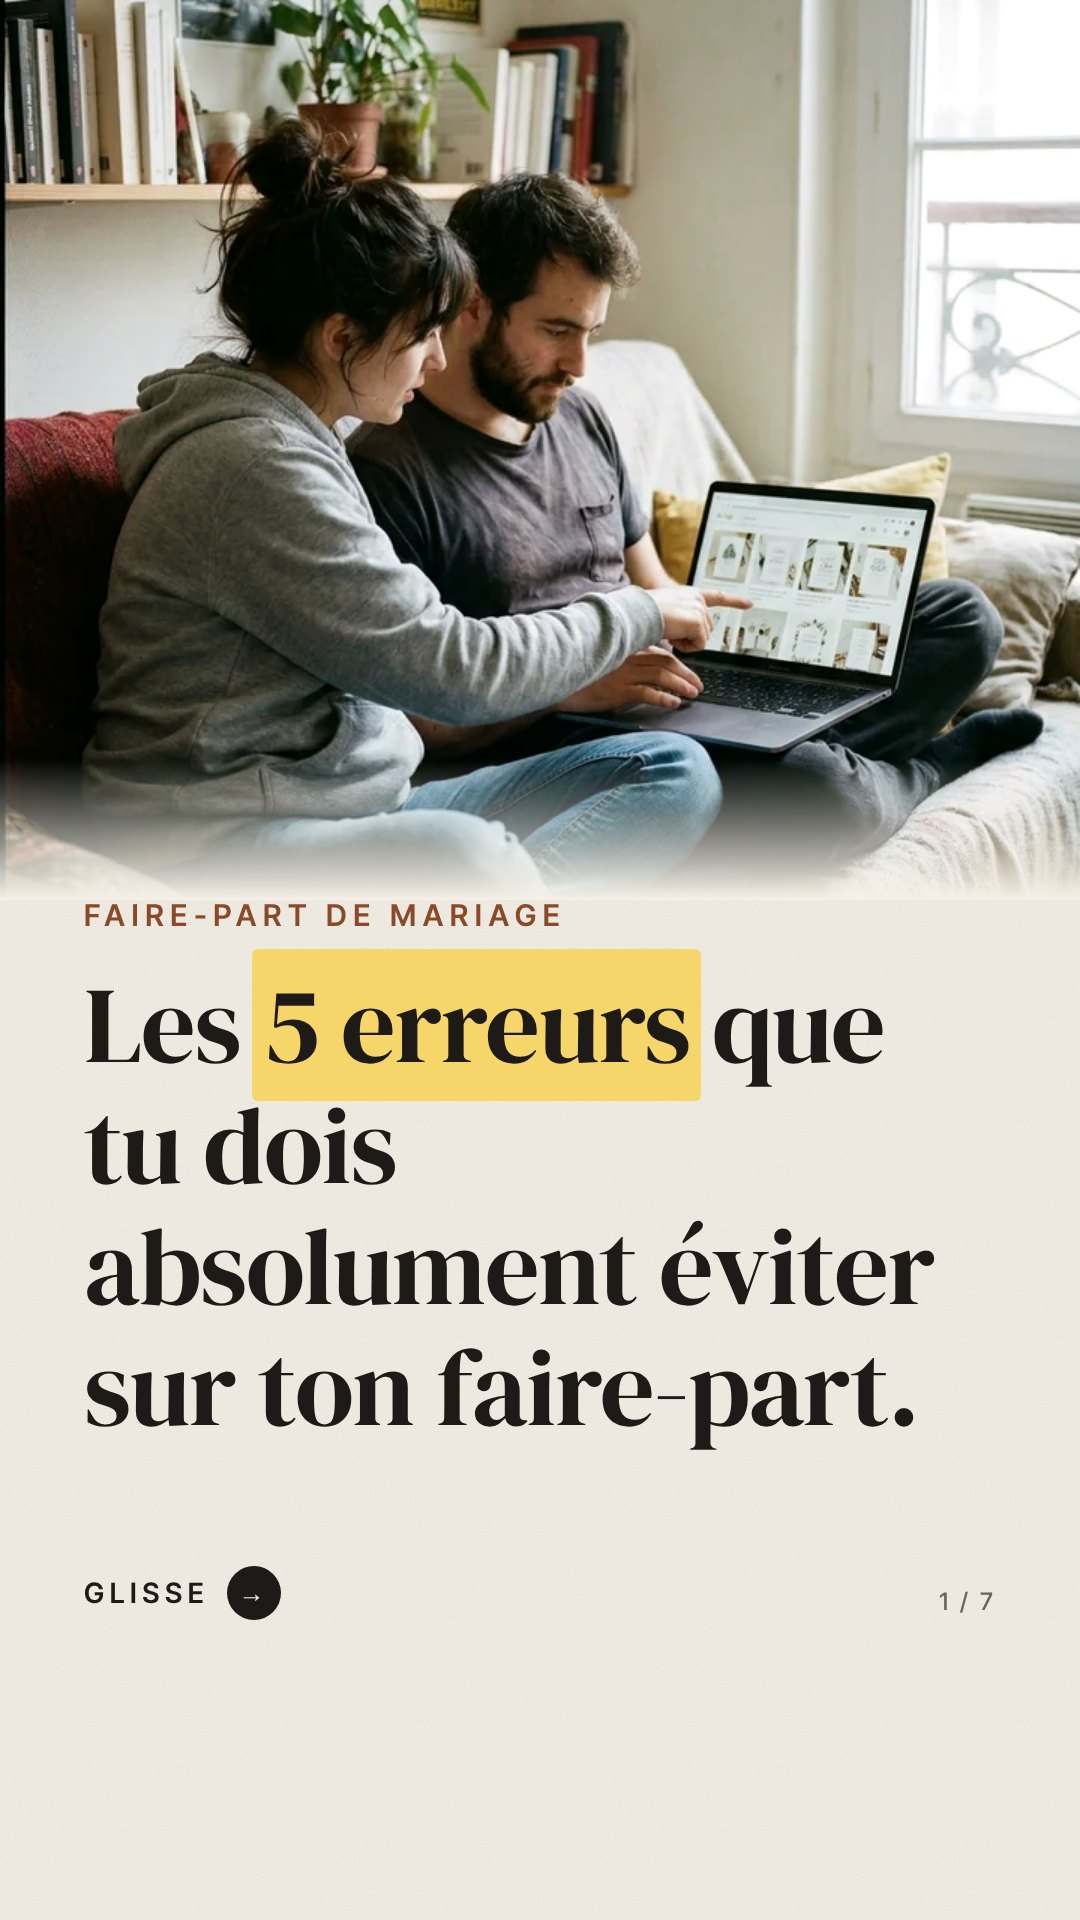
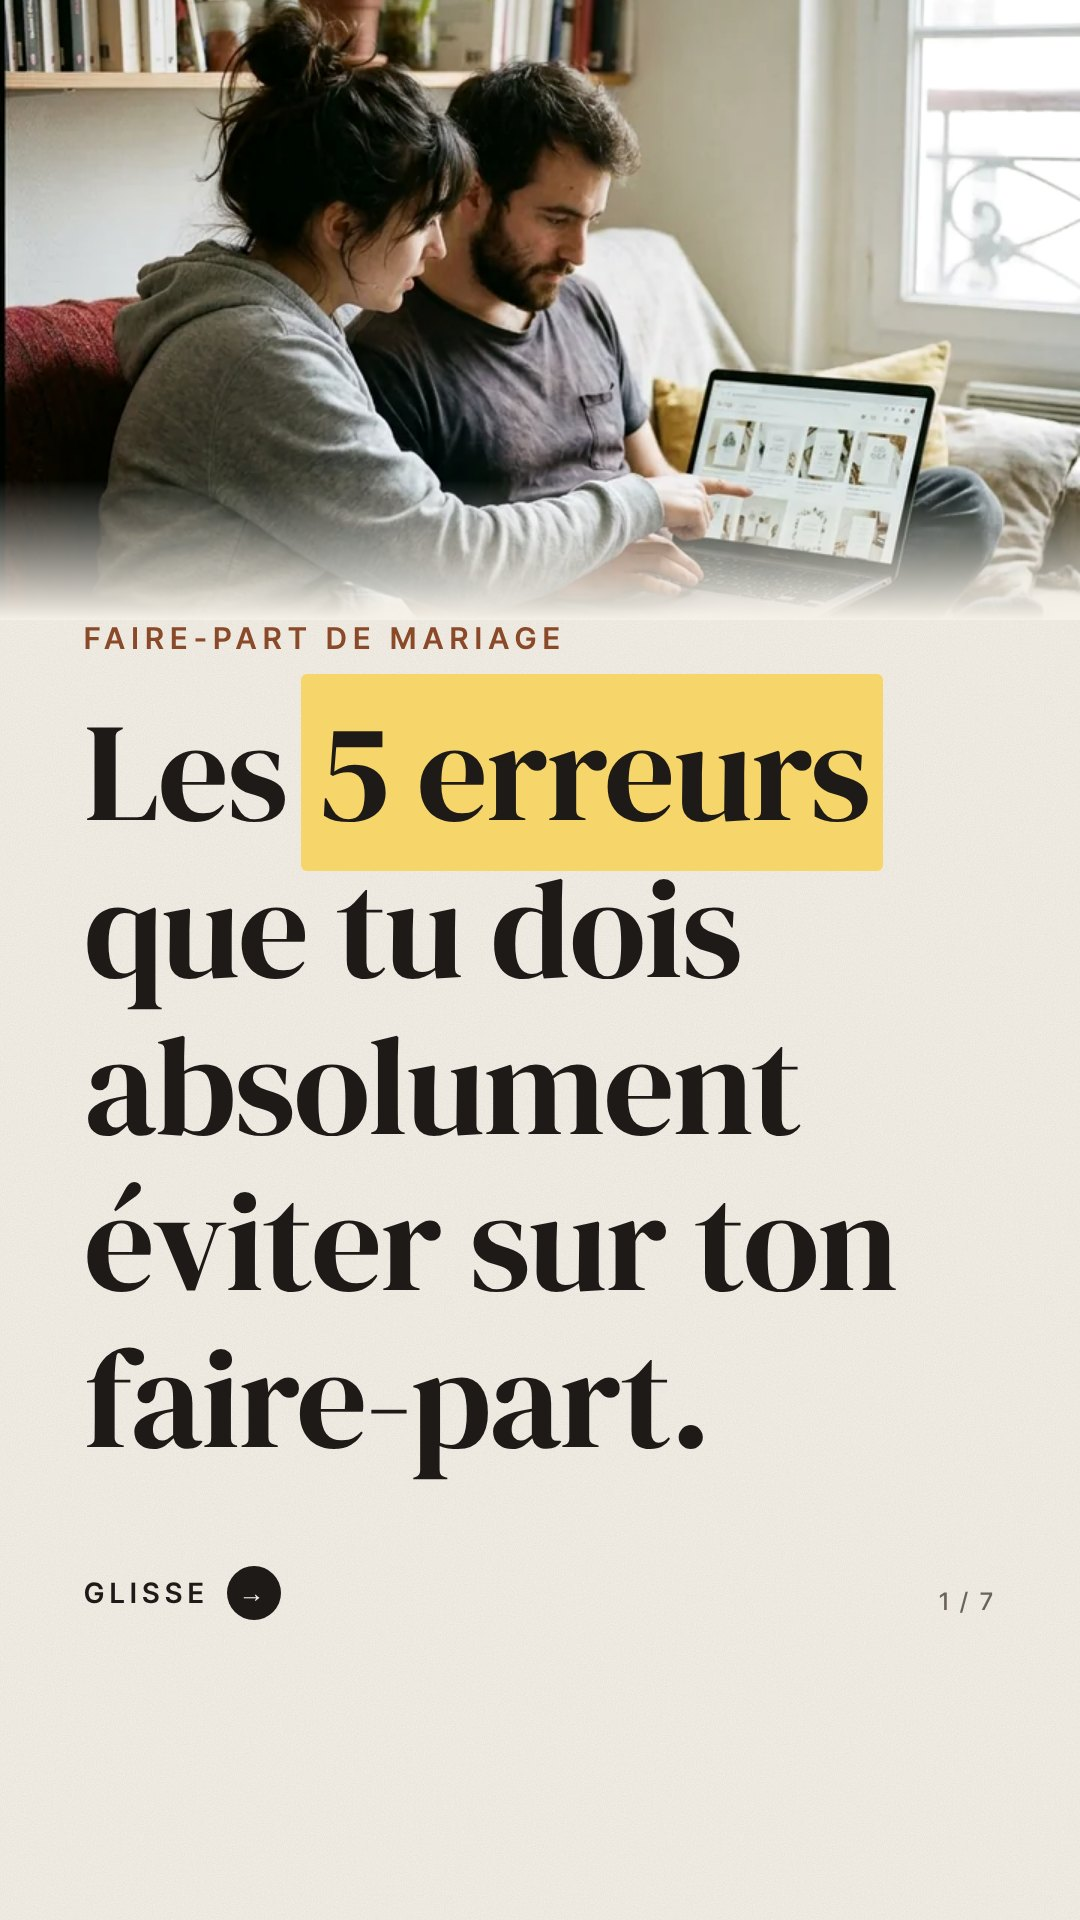
Pubs TikTok : l'accroche est la problématique, en énorme
Première image : icône ou photo réduite, la phrase prend le reste.

Claude-Session: https://claude.ai/code/session_01Hwoi2iSdsehGpJdETQdhfU

diff --git a/business/ads/tiktok-infos/erreurs.py b/business/ads/tiktok-infos/erreurs.py
@@ -40,6 +40,11 @@ p{font:400 50px/1.32 "Inter Tight",sans-serif;color:#3a342f;max-width:880px;text
 .sig{position:absolute;left:84px;bottom:296px;display:flex;align-items:baseline;gap:10px;color:#1e1a17}
 .sig span{font:500 20px/1 "Inter Tight",sans-serif;letter-spacing:.26em}
 .sig b{font:400 46px/1 "Great Vibes",cursive}
+.hook .ic{height:560px}.hook .ic .blob{width:380px;height:350px}.hook .ic svg{width:280px;height:280px}
+.hook .ph{height:620px}
+.hook .in{top:560px;bottom:380px;justify-content:center;gap:40px}
+.hook h1{font-size:140px;line-height:1.12}
+.hook p{font-size:54px}
 .pg{position:absolute;right:84px;bottom:306px;font:500 24px/1 "Inter Tight",sans-serif;letter-spacing:.14em;color:#6b625b}
 """
 
@@ -49,8 +54,8 @@ def html(s, i, n):
     go = '<div class="go">Glisse <i>→</i></div>' if s.get('go') else ''
     sig = '<div class="sig"><span>SAVE THE</span><b>Oui</b></div>' if s.get('end') else ''
     ph = f'<div class="ph"><img src="file://{ROOT}/img/people/{s["img"]}-photo.webp" style="object-position:{s.get("pos","center")}"></div>' if s.get('img') else ''
-    fit = '<script>document.fonts.ready.then(()=>{const b=document.querySelector(".in"),h=b.querySelector("h1");let fs=parseFloat(getComputedStyle(h).fontSize);while(b.scrollHeight>b.clientHeight&&fs>80){fs-=2;h.style.fontSize=fs+"px"}})</script>'
-    return f'<!doctype html><html lang="fr"><head><meta charset="utf-8"><style>{FONTS}{CSS}</style></head><body><div class="ad">{ph}<div class="in">{top}{body}</div>{go}{sig}<div class="pg">{i} / {n}</div></div>{fit}</body></html>'
+    fit = '<script>document.fonts.ready.then(()=>{const b=document.querySelector(".in"),h=b.querySelector("h1");let fs=parseFloat(getComputedStyle(h).fontSize);while(b.scrollHeight>b.clientHeight&&fs>84){fs-=2;h.style.fontSize=fs+"px"}})</script>'
+    return f'<!doctype html><html lang="fr"><head><meta charset="utf-8"><style>{FONTS}{CSS}</style></head><body><div class="ad{' hook' if s.get('go') else ''}">{ph}<div class="in">{top}{body}</div>{go}{sig}<div class="pg">{i} / {n}</div></div>{fit}</body></html>'
 
 if __name__ == '__main__':
     os.makedirs(os.path.join(HERE, 'html'), exist_ok=True)

diff --git a/business/ads/tiktok-infos/icones.py b/business/ads/tiktok-infos/icones.py
@@ -54,6 +54,11 @@ p{font:400 50px/1.32 "Inter Tight",sans-serif;color:#3a342f;max-width:880px;text
 .sig{position:absolute;left:84px;bottom:296px;display:flex;align-items:baseline;gap:10px;color:#1e1a17}
 .sig span{font:500 20px/1 "Inter Tight",sans-serif;letter-spacing:.26em}
 .sig b{font:400 46px/1 "Great Vibes",cursive}
+.hook .ic{height:560px}.hook .ic .blob{width:380px;height:350px}.hook .ic svg{width:280px;height:280px}
+.hook .ph{height:620px}
+.hook .in{top:560px;bottom:380px;justify-content:center;gap:40px}
+.hook h1{font-size:140px;line-height:1.12}
+.hook p{font-size:54px}
 .pg{position:absolute;right:84px;bottom:306px;font:500 24px/1 "Inter Tight",sans-serif;letter-spacing:.14em;color:#6b625b}
 """
 
@@ -63,8 +68,8 @@ def html(s, i, n):
     go = '<div class="go">Glisse <i>→</i></div>' if s.get('go') else ''
     sig = '<div class="sig"><span>SAVE THE</span><b>Oui</b></div>' if s.get('end') else ''
     ic = f'<div class="ic"><div class="blob"></div>{svg(s["ic"])}</div>'
-    fit = '<script>document.fonts.ready.then(()=>{const b=document.querySelector(".in"),h=b.querySelector("h1");let fs=parseFloat(getComputedStyle(h).fontSize);while(b.scrollHeight>b.clientHeight&&fs>80){fs-=2;h.style.fontSize=fs+"px"}})</script>'
-    return f'<!doctype html><html lang="fr"><head><meta charset="utf-8"><style>{FONTS}{CSS}</style></head><body><div class="ad">{ic}<div class="in">{top}{body}</div>{go}{sig}<div class="pg">{i} / {n}</div></div>{fit}</body></html>'
+    fit = '<script>document.fonts.ready.then(()=>{const b=document.querySelector(".in"),h=b.querySelector("h1");let fs=parseFloat(getComputedStyle(h).fontSize);while(b.scrollHeight>b.clientHeight&&fs>84){fs-=2;h.style.fontSize=fs+"px"}})</script>'
+    return f'<!doctype html><html lang="fr"><head><meta charset="utf-8"><style>{FONTS}{CSS}</style></head><body><div class="ad{' hook' if s.get('go') else ''}">{ic}<div class="in">{top}{body}</div>{go}{sig}<div class="pg">{i} / {n}</div></div>{fit}</body></html>'
 
 if __name__ == '__main__':
     os.makedirs(os.path.join(HERE, 'html'), exist_ok=True)

diff --git a/CLAUDE.md b/CLAUDE.md
@@ -720,6 +720,10 @@ faire-part, vitrine, aperçus, images d'aperçu WhatsApp (og.jpg), images géné
     jaune ; une icône par image, qui dit la phrase (téléphone à point d'interrogation, calendrier barré, famille, bulle de
     pensée, liste cochée, marque-page). Noto Color Emoji est installé si un emoji est voulu. Aucune génération.
     Premier post en ce style : « Tu as envoyé ton faire-part et personne ne t'a répondu ? » (`out/repond/`, 7 images).
+    **L'accroche est la problématique, énorme** (même jour : « il faut que ce soit le hook, la problématique bien lisible,
+    bien visible ») : sur la première image, l'icône ou la photo est réduite (560 px de haut) et la phrase prend le reste
+    (140 px, réduite jusqu'à 84 px seulement si elle ne tient pas), centrée verticalement ; classe `hook` dans les deux
+    gabarits.
     Publication : le connecteur Higgsfield relie le compte TikTok (lien à ouvrir une fois) et dépose le carrousel dans les
     brouillons de l'application (`UPLOAD_TO_DRAFT`) : l'utilisateur n'a plus qu'à appuyer sur Publier.
 
